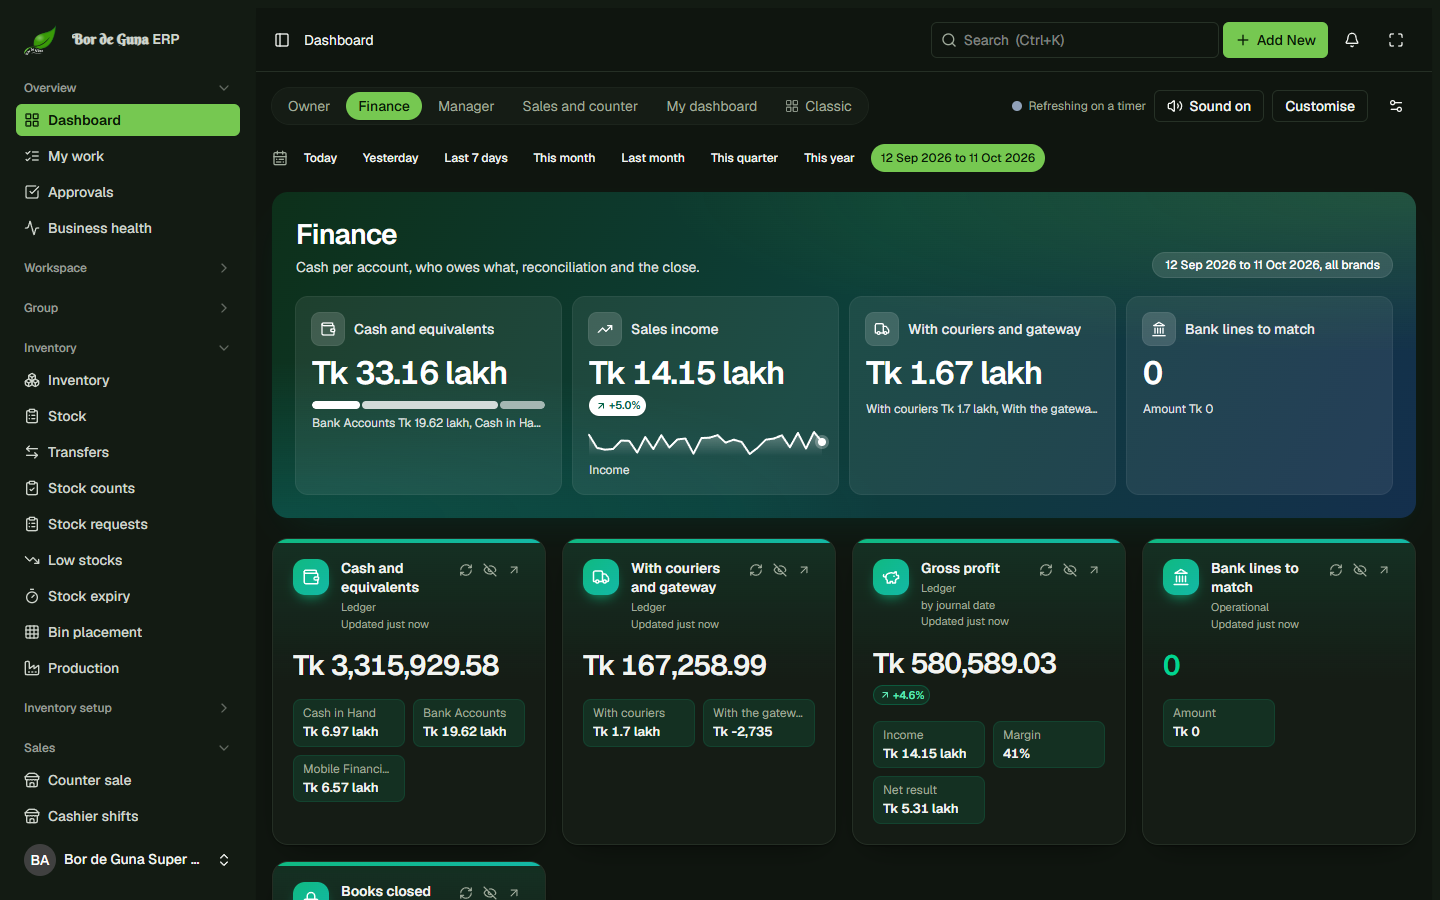
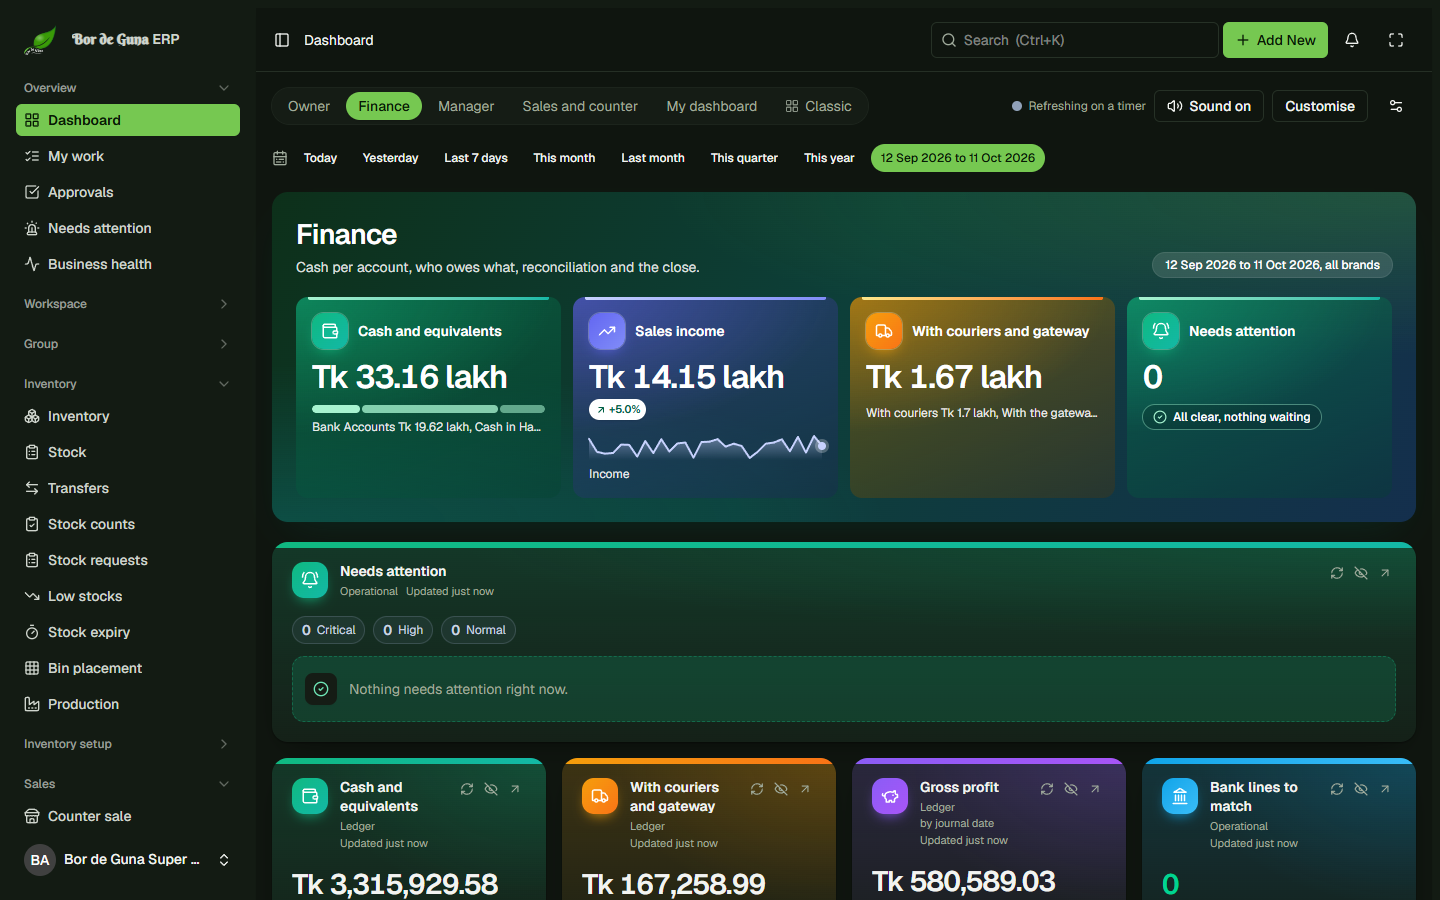
Dashboard colour: second-pass screenshots and notes

diff --git a/docs/dashboard-colour/NOTES.md b/docs/dashboard-colour/NOTES.md
@@ -69,3 +69,24 @@ states (which is also how the empty states were checked).
 - `owner-light-1440.png`, `finance-dark-1440.png`, `employee-dark-1440.png`,
   `owner-light-390.png` (first screen of each).
 - No horizontal scroll at 390 px on any of the five dashboards, light or dark.
+
+## Second pass: more colour (11 Oct 2026, after review)
+
+- Hero tiles each wear their own colour on the brand band: cash emerald,
+  sales indigo, couriers amber, attention rose (emerald when nothing is
+  waiting), stock sky, people and approvals violet or rose. Tinted glass,
+  a lit top edge, a solid icon tile, and the sparkline and split bar in the
+  tile's own pale accent. The change chip keeps green for good and red for
+  bad, so its meaning is not lost to the tile colour.
+- Accents are now named by colour (emerald, teal, sky, indigo, violet, amber,
+  rose, red) and chosen per widget in `palette.ts`: money in transit amber,
+  gross profit violet, receivables teal, payables rose, bank lines sky,
+  sales indigo, stock sky, people rose. A Needs attention card with nothing
+  waiting turns emerald.
+- Stronger card tint, a coloured border, and mini stat tiles filled in the
+  accent with the label in the accent's 800 step (light) or 300 step (dark),
+  so they stay AA.
+- Merged master: every new string goes through `t()` with a Bangla entry
+  (`dash.hero.*`, `dash.colour.*` in `lib/i18n/dashboards.ts`); the new Needs
+  attention widget feeds the hero's attention tile and shows its severity
+  counts as coloured pills.
